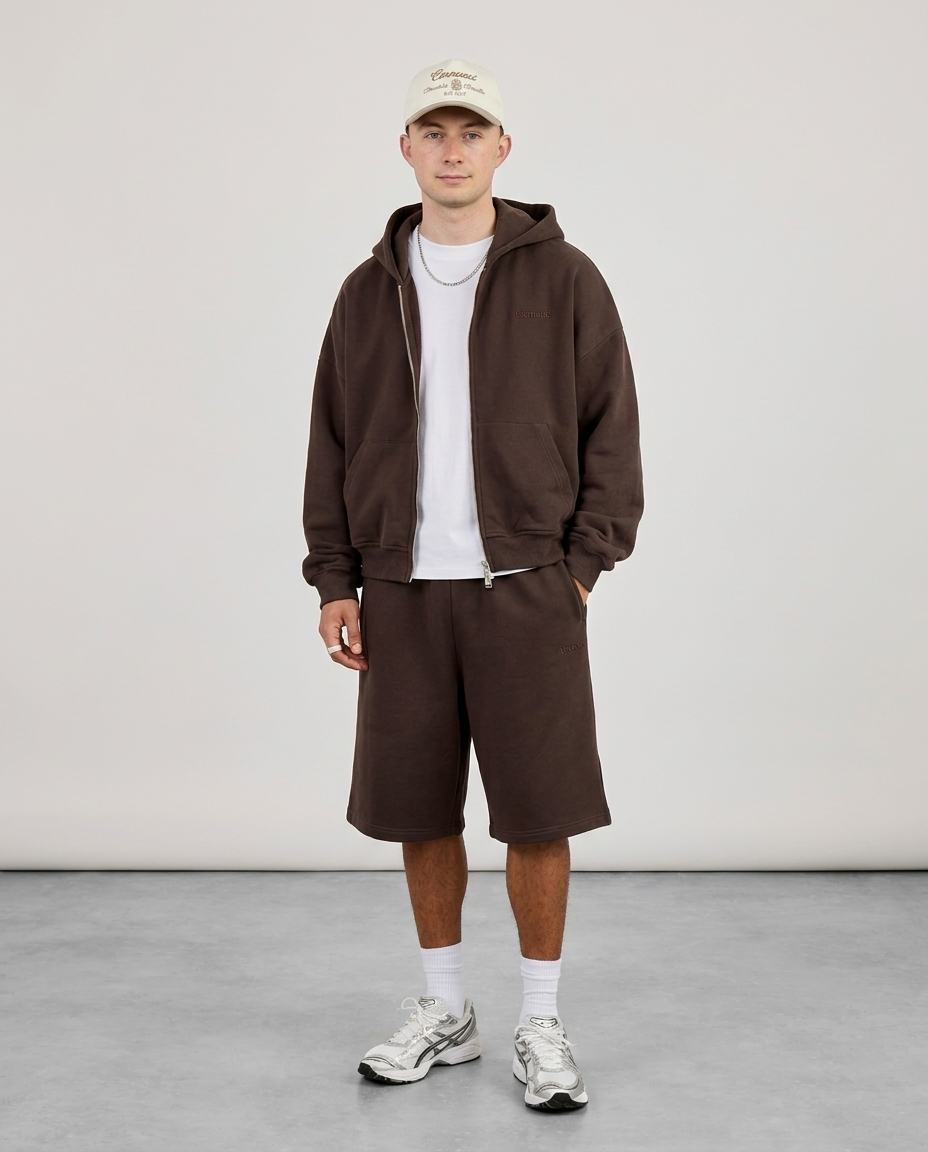
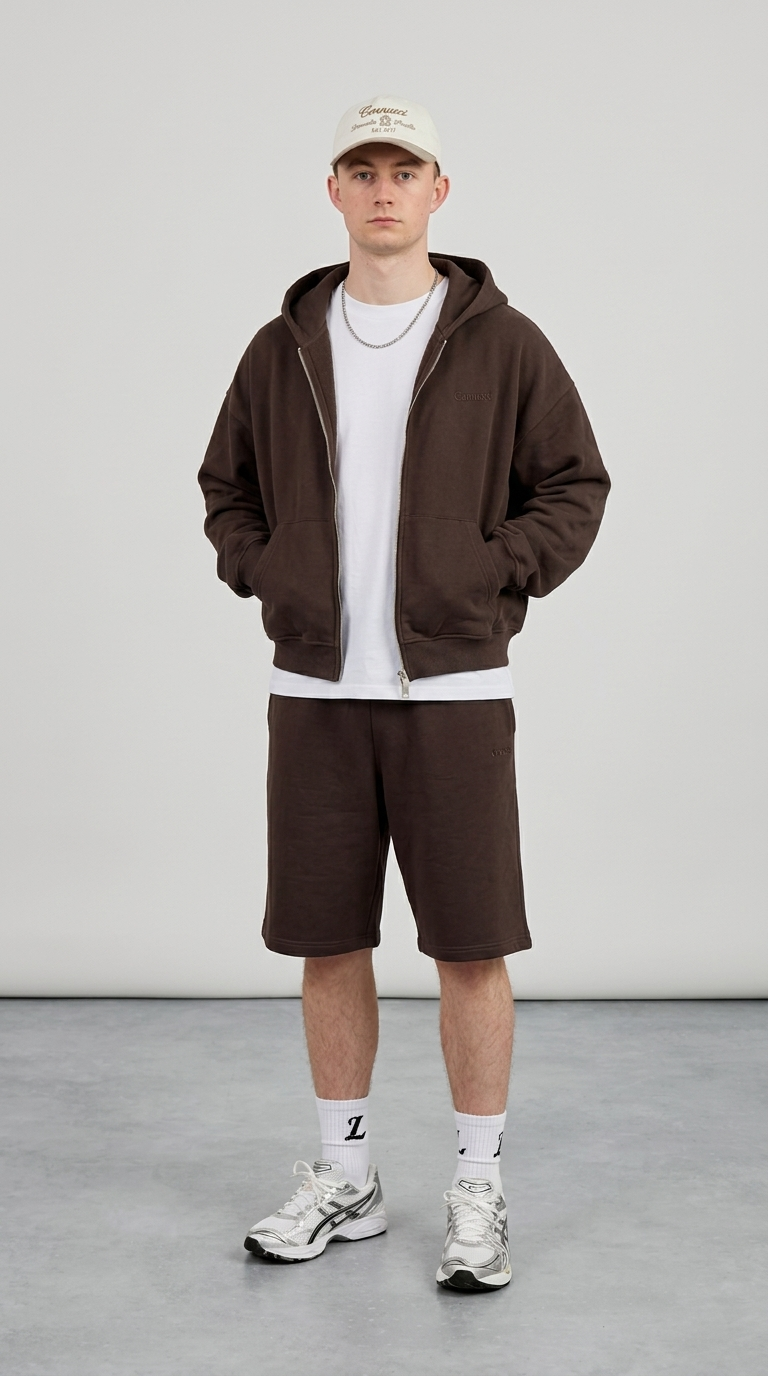
cernucci and holland and holland fix

Changed region(s): [[0.0, 0.0625, 1.0, 0.9688]]

diff --git a/components/CernucciDemoPage.tsx b/components/CernucciDemoPage.tsx
@@ -37,21 +37,21 @@ interface DemoProduct {
 const BASE = '/outfits/Cernucci';
 
 export const CERNUCCI_PRODUCTS: Record<string, DemoProduct> = {
-  'tennis-chain': {
+  'womens-chain': {
     id: 60,
-    name: 'Tennis Chain - 5mm - White',
+    name: 'Womens Chain - White Gold',
     brand: 'Cernucci',
     price: '£58.49',
     originalPrice: '£64.99',
     discount: '10% OFF',
-    colour: 'Silver',
+    colour: 'White Gold',
     sizes: ['16"', '18"', '20"', '22"', '24"'],
     defaultSize: '20"',
-    productSrc: `${BASE}/tennischain/ys-5mm-tc-wg-1_1200x1800.jpg.webp`,
-    faceSrc: '/result-images/IMG_8175.jpeg',
-    bodySrc: '/result-images/sydbody Background Removed.png',
-    afterSrc: `${BASE}/tennischain/ys-5mm-tc-wg-1_1200x1800.jpg-nb2-4k-tryon.png`,
-    description: 'Our 5mm Tennis Chain is a Cernucci classic. The round cut stones catch light from every angle and can be worn on any occasion. This timeless chain is a staple piece for every collection. Outshine everybody.',
+    productSrc: `${BASE}/cernucciwomensproduct.webp`,
+    faceSrc: '/result-images/siennaface-new.png',
+    bodySrc: '/result-images/siennabody--new.JPG',
+    afterSrc: `${BASE}/cernucciwomenstryon.png`,
+    description: 'A Cernucci classic reimagined for women. Delicate yet striking, this white gold chain sits beautifully at any length and elevates every look effortlessly.',
     metal: 'Brass · Rhodium Plated · High Quality Cut Cubic Zirconia',
   },
   'cuban-chain': {

diff --git a/components/HollandHollandDemoPage.tsx b/components/HollandHollandDemoPage.tsx
@@ -39,16 +39,16 @@ const BASE = '/result-images/Holland&Holland';
 export const HH_PRODUCTS: Record<string, DemoProduct> = {
   'tweed-field-coat': {
     id: 50,
-    name: 'Northwood Tweed Field Coat',
+    name: 'Northwood Ladies Tweed Field Coat',
     brand: 'Holland & Holland',
-    price: '£1,095.00',
-    colour: 'Hawthorn',
+    price: '£1,095',
+    colour: 'Hazel',
     category: 'Shooting',
     sizes: ['S', 'M', 'L', 'XL', 'XXL'],
-    productSrc: `${BASE}/NORTHWOODTWEEDFIELDCOAT/clo-fldcoat1hawthorn-frontcopy_377520b7-af93-4b2a-baa4-a0ab41ac4011_2000x.jpg`,
-    faceSrc: '/result-images/IMG_8175.jpeg',
-    bodySrc: '/result-images/sydbody Background Removed.png',
-    afterSrc: `${BASE}/NORTHWOODTWEEDFIELDCOAT/clo-fldcoat1hawthorn-backcopy_1c6442ea-53a5-4063-801f-83f748e78e65_2000x-nb2-2k-tryon.png`,
+    productSrc: `${BASE}/NORTHWOODTWEEDFIELDCOAT/Holland&Holland.jpg`,
+    faceSrc: '/result-images/siennaface-new.png',
+    bodySrc: '/result-images/siennabody--new.JPG',
+    afterSrc: `${BASE}/NORTHWOODTWEEDFIELDCOAT/Holland&Holland2.jpeg`,
     description: 'The quintessential fieldsports essential. The Northwood tweed weatherproof field coat combines shooting features with timeless style. The action back allows for ease of swing and the large bellow cartridge pockets with tab retainer mean fast and instinctive access when on the peg.',
   },
   'shooting-gilet': {

diff --git a/App.tsx b/App.tsx
@@ -108,7 +108,7 @@ const App: React.FC = () => {
           <Route path="/holland-holland/shooting-gilet" element={<HollandHollandDemoPage productSlug="shooting-gilet" />} />
           <Route path="/holland-holland/ladies-shirt" element={<HollandHollandDemoPage productSlug="ladies-shirt" />} />
           <Route path="/holland-holland/tweed-cap" element={<HollandHollandDemoPage productSlug="tweed-cap" />} />
-          <Route path="/cernucci/tennis-chain" element={<CernucciDemoPage productSlug="tennis-chain" />} />
+          <Route path="/cernucci/womens-chain" element={<CernucciDemoPage productSlug="womens-chain" />} />
           <Route path="/cernucci/cuban-chain" element={<CernucciDemoPage productSlug="cuban-chain" />} />
           <Route path="/cernucci/stud-earring" element={<CernucciDemoPage productSlug="stud-earring" />} />
           <Route path="/cernucci/matching-set" element={<CernucciDemoPage productSlug="matching-set" />} />
